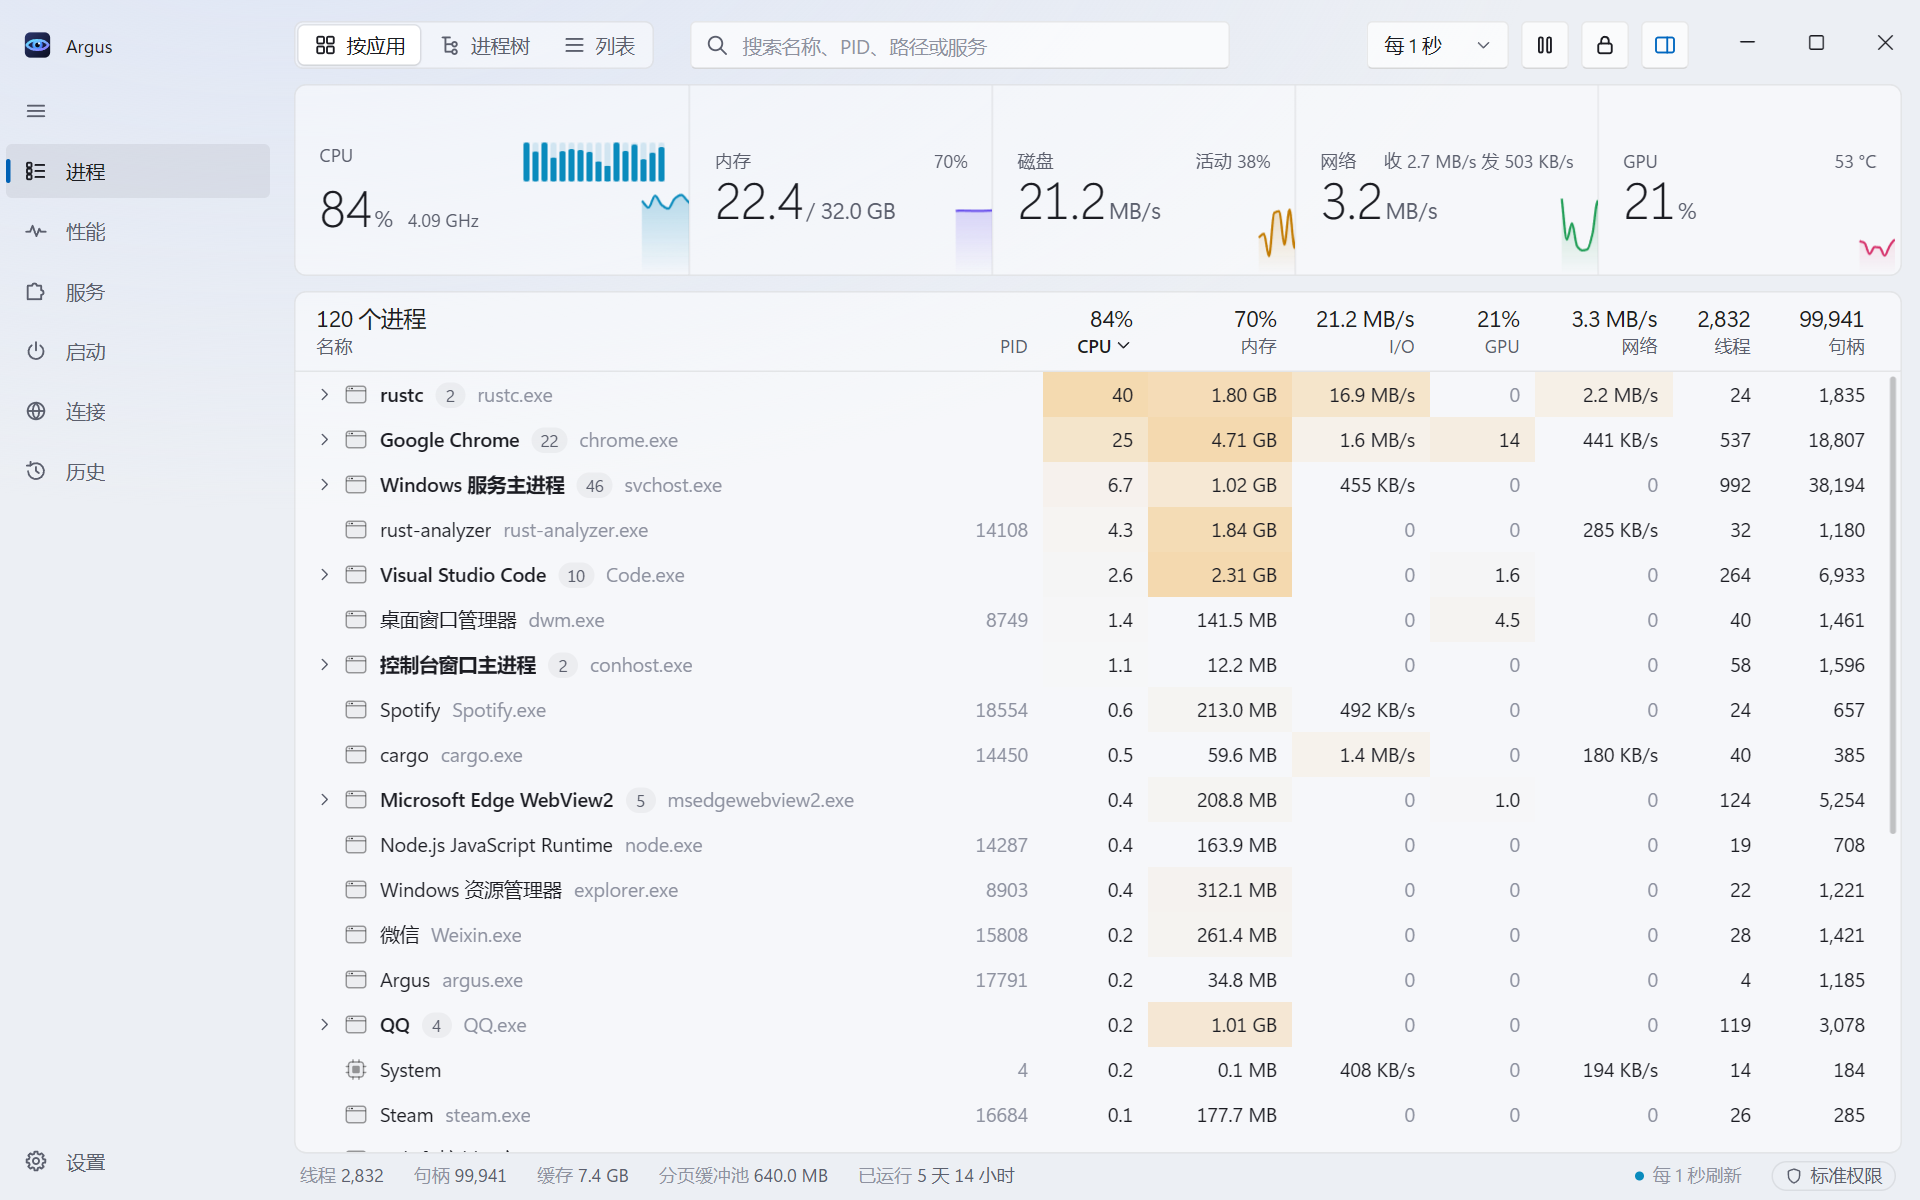
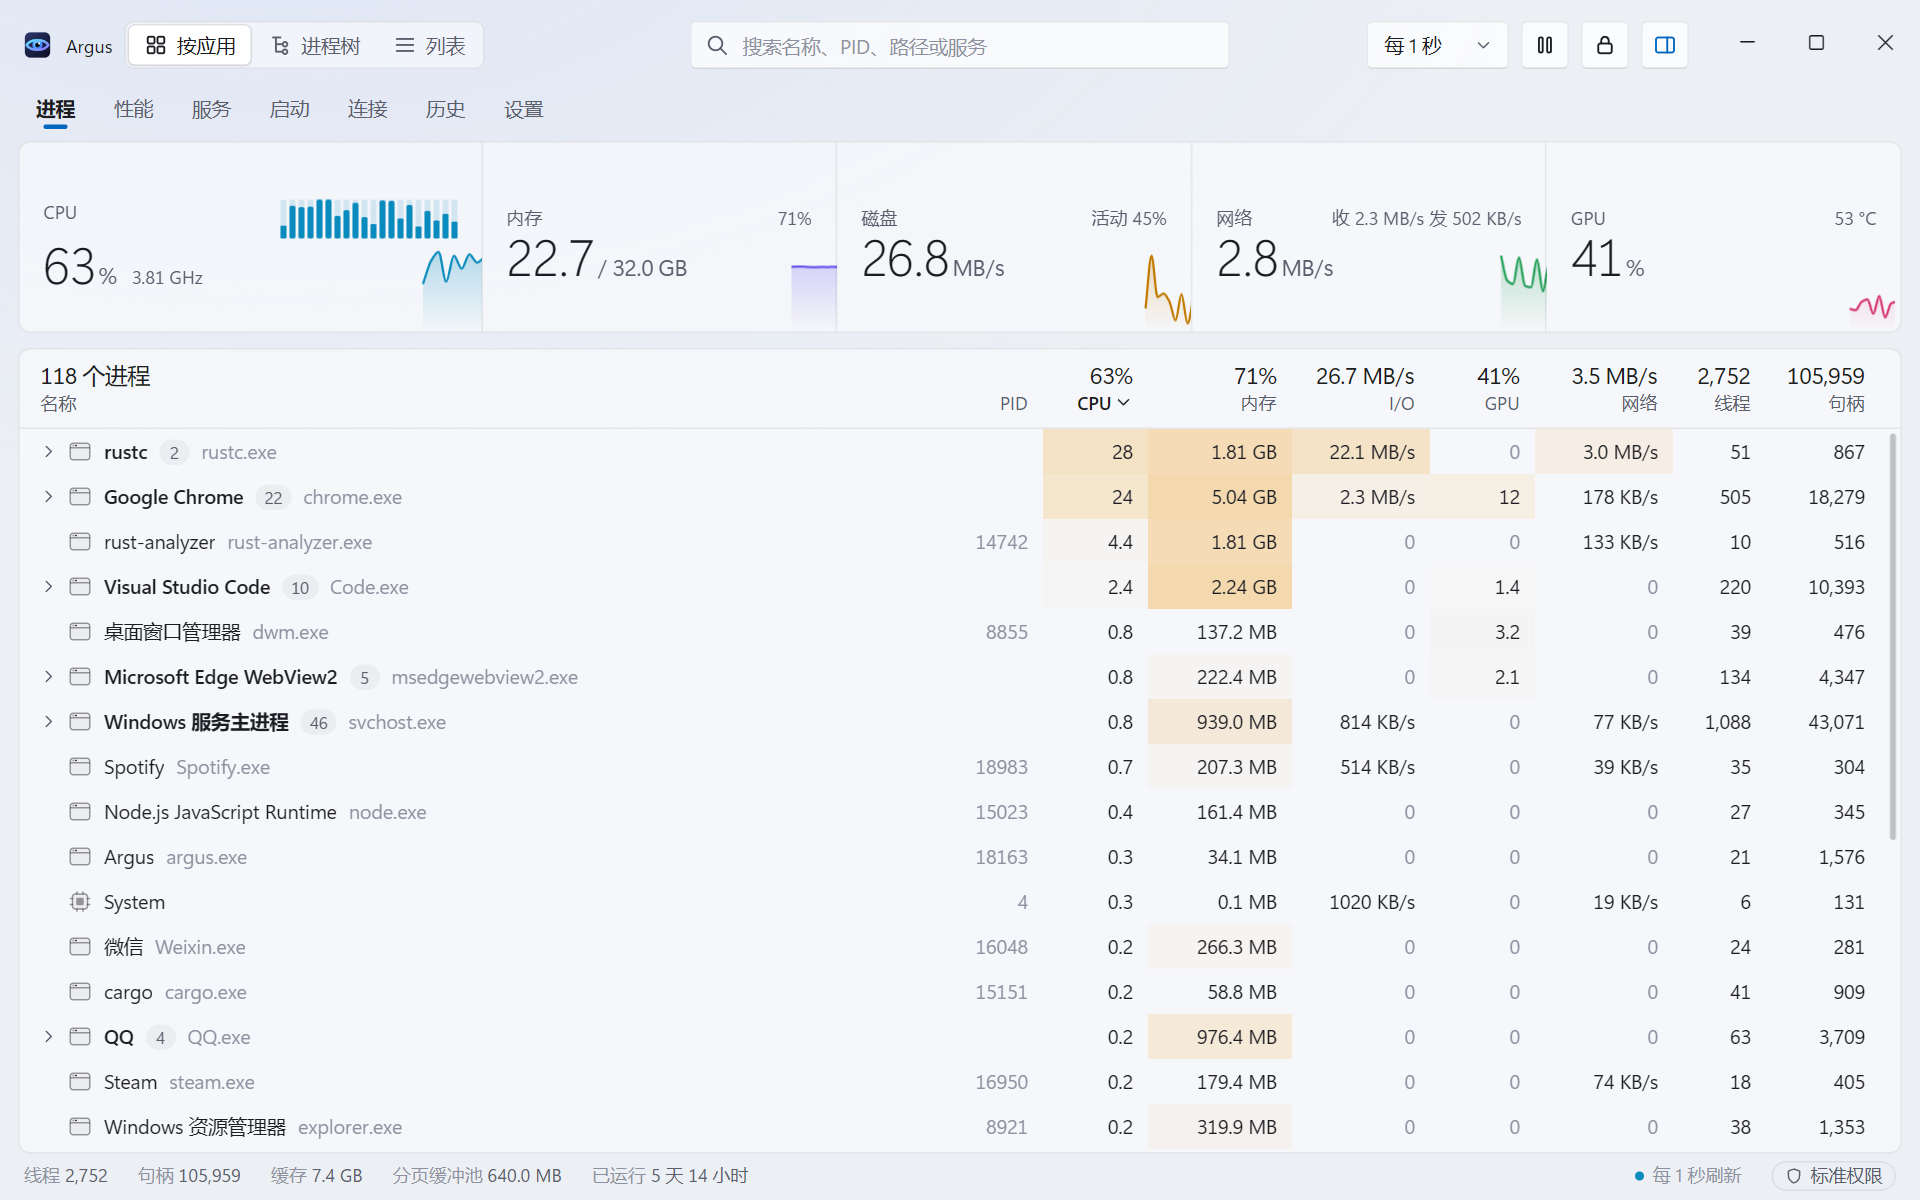
docs: README 截图改为默认的顶部导航界面
中英文、浅色与深色四张截图按现在的默认界面重新截取：导航栏位于工具栏下方，进程页，模拟数据，1280×800 CSS 像素、1.5 倍缩放。原截图展开着侧边导航栏。截图规则补充：用全新的浏览器配置截取默认界面，等新启动进程的高亮消失再截，标题栏的“开发版”换成“Vigil”。

diff --git a/docs/AGENTS.md b/docs/AGENTS.md
@@ -4,7 +4,7 @@
 
 - `README.md`（仓库根目录）：对外公开的介绍，参考典型开源项目：是什么、特性、系统要求、怎么构建、快捷键摘要、文档入口、路线图摘要。保持简短，不放实现细节和测量过程。内部开发细则（提交规范、发布流程、CI）也不写进去，包括文档链接后的说明文字。
 - README 的标题 emoji 不要带变体选择符 U+FE0F（如 🛠、⌨、🗺）：GitHub 生成锚点时会保留这个不可见字符，`#-标题` 形式的链接就会失效。版本、下载量等徽标读取 GitHub API，仓库私有时显示 “repo not found”。
-- README 截图（`docs/images/`）用模拟数据截取：在 headless Edge 里打开 `start.bat ui` 的页面，通过 CDP 分别设置浅色与深色截图，不截真实进程。性能页的曲线在 headless 下不渲染，不要用它截图。
+- README 截图（`docs/images/`）用模拟数据截取：在 headless Edge 里打开 `start.bat ui` 的页面，通过 CDP 分别设置浅色与深色截图，不截真实进程。截取默认界面：用全新的浏览器配置，不改导航栏位置等偏好；等进程表里没有新启动进程的高亮再截。标题栏的“开发版”字样替换为“Vigil”。性能页的曲线在 headless 下不渲染，不要用它截图。
 - 英文版 `README.en.md` 与 `README.md` 内容对应，改一边要同步另一边；两者顶部的语言切换行互相链接。英文截图（`screenshot-en-*.png`）用 `?lang=en-US` 打开模拟数据页面截取，模拟数据里的进程与服务描述会随之换成英文。英文版链接的 `docs/` 页面是中文的，链接处注明。
 - `docs/`：给用户和开发者看的详细信息。
 - `AGENTS.md`（根目录与各子目录）：只给 AI 代理看的规则与经验。不要把这些内容写进 README 或 docs，也不要把面向人的说明只写在 AGENTS.md 里。
